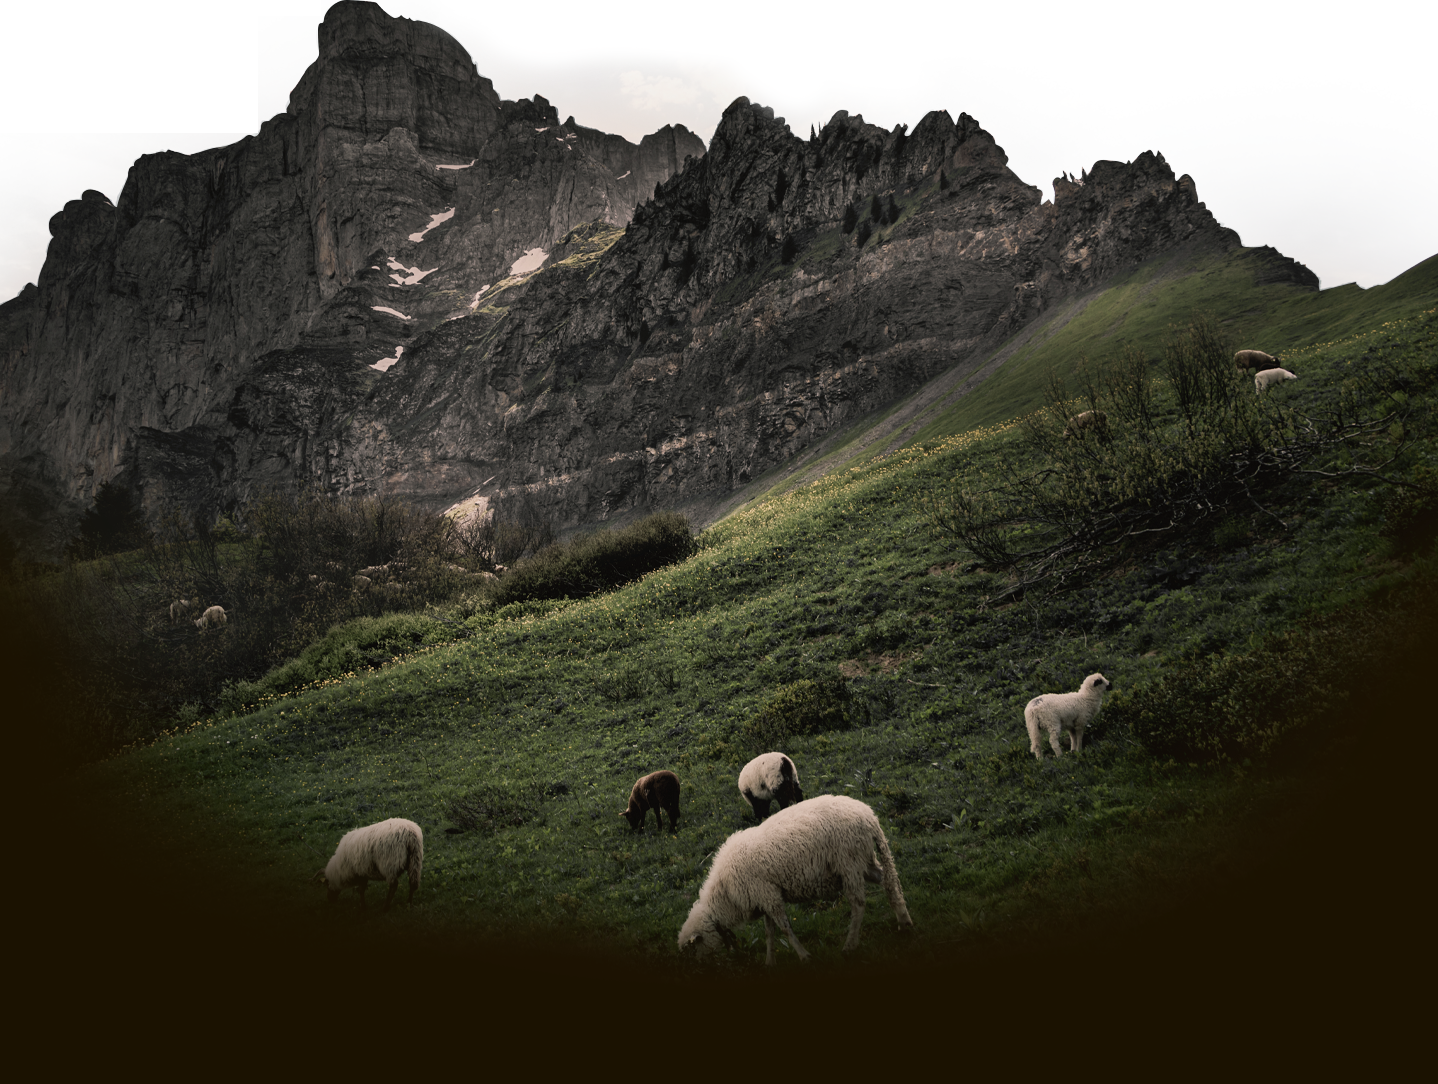
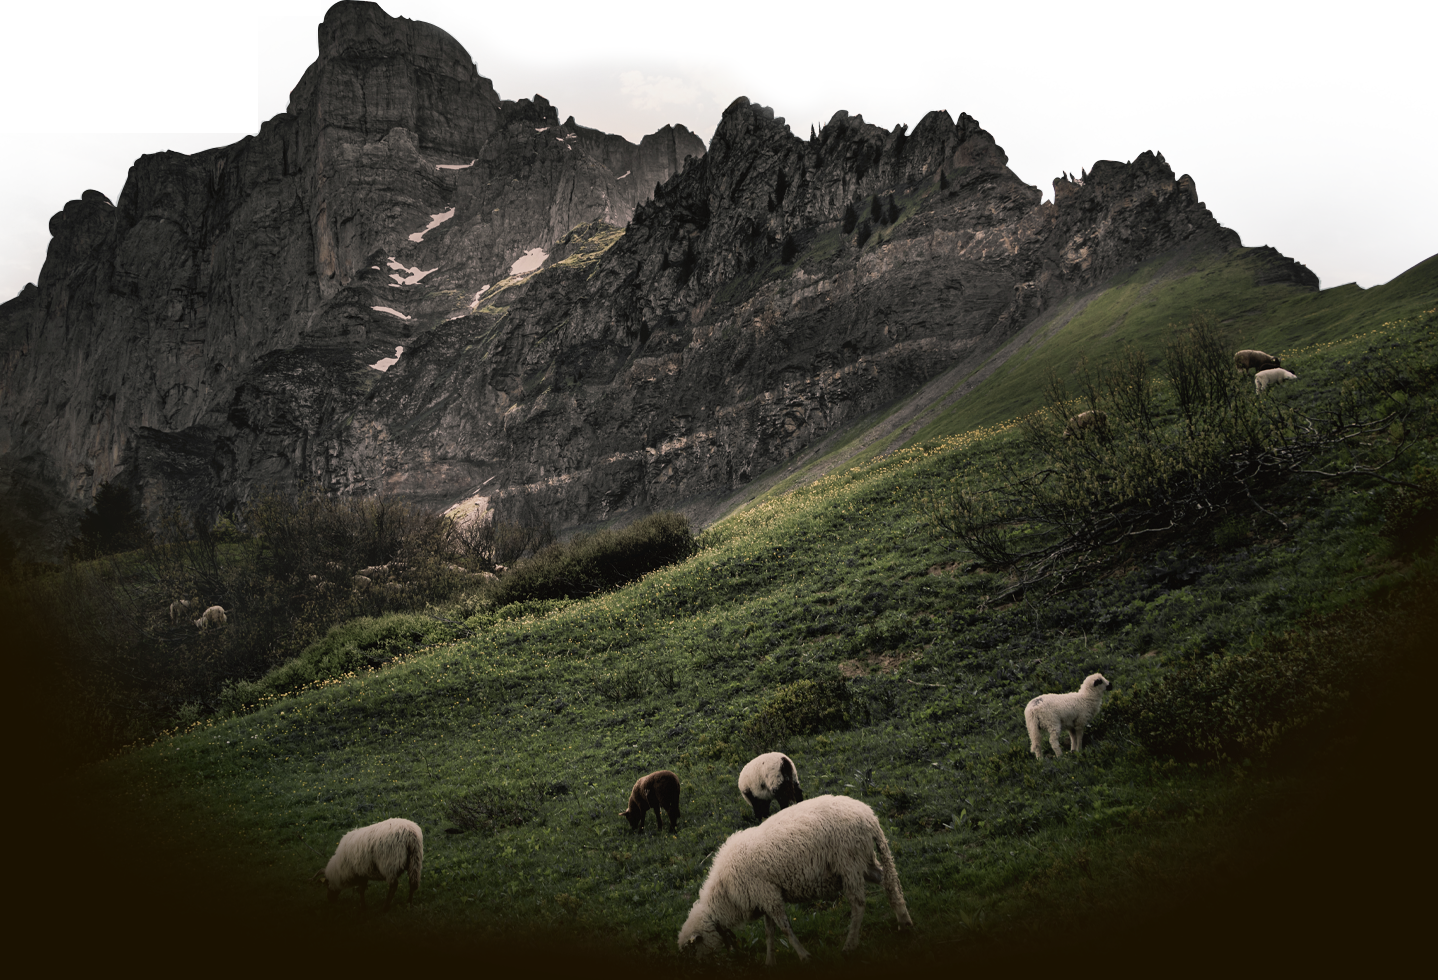
feat(timetable): adding timetable item

diff --git a/components/molecules/Timtable/Timetable.vue b/components/molecules/Timtable/Timetable.vue
@@ -1,0 +1,67 @@
+<script setup lang="ts">
+import type { Timetable } from '@/shared/interfaces'
+
+type KeyType = 0 | 1 | 2 | 3 | 4 | 5 | 6
+
+const props = defineProps<{
+  timetable: Timetable
+}>()
+
+const dayIndex: KeyType = new Date().getDay() as KeyType
+const mappingArray = {
+  0: 6,
+  1: 0,
+  2: 1,
+  3: 2,
+  4: 3,
+  5: 4,
+  6: 5,
+}
+const activeItem = mappingArray[dayIndex]
+</script>
+
+<template>
+  <div class="c-timetable bg-black-400 pb-20 pt-14">
+    <h2 class="center mb-14 text-center font-serif text-2xl font-bold uppercase leading-8 text-black-100" v-html="props.timetable.title" />
+    <div class="container-xl container mx-auto">
+      <ul
+        v-if="props.timetable.items.length"
+        class="flex justify-between"
+      >
+        <li
+          v-for="(item, key) in props.timetable.items"
+          :key="item.id"
+          :class="{ 'opacity-30': activeItem !== key }"
+          class="border-b-2 border-ble-200 pb-4 hover:cursor-default hover:opacity-100"
+        >
+          <p class="mb-4 font-semibold uppercase leading-none text-black-200">
+            {{ item.title }}
+          </p>
+          <span
+            class="block font-black uppercase leading-none text-black-100"
+          >
+            {{ item.timeSlots1 }}
+          </span>
+          <span
+            v-if="item.timeSlots2"
+            class="block font-black uppercase leading-none text-black-100"
+          >
+            {{ item.timeSlots2 }}
+          </span>
+        </li>
+      </ul>
+    </div>
+  </div>
+</template>
+
+<style lang="scss" scoped>
+.c-timetable {
+  ul {
+    li {
+      transition: var(--transition-default);
+      width: 100%;
+      max-width: 6.25rem;
+    }
+  }
+}
+</style>

diff --git a/shared/fakeData/timetable.fake.ts b/shared/fakeData/timetable.fake.ts
@@ -1,0 +1,49 @@
+import type { Timetable } from '../interfaces'
+
+export const timetableData: Timetable = {
+  title: 'Horaires d\'ouverture <br> du restaurant en été',
+  items: [
+    {
+      title: 'Lun',
+      timeSlots1: '11h30-14h30',
+      timeSlots2: '19h00-22h30',
+      id: '567BrHJIbhfe67',
+    },
+    {
+      title: 'Mar',
+      timeSlots1: '11h30-14h30',
+      timeSlots2: '19h00-22h30',
+      id: '567BHJIbhfue67',
+    },
+    {
+      title: 'Mer',
+      timeSlots1: '11h30-14h30',
+      timeSlots2: '19h00-22h30',
+      id: '567BHJIbbhfe67',
+    },
+    {
+      title: 'Jeu',
+      timeSlots1: '11h30-14h30',
+      timeSlots2: '19h00-22h30',
+      id: '567BHJIbhfe867',
+    },
+    {
+      title: 'Ven',
+      timeSlots1: '11h30-14h30',
+      timeSlots2: '19h00-22h30',
+      id: '567BHJRIbhfe67',
+    },
+    {
+      title: 'Sam',
+      timeSlots1: '11h30-14h30',
+      timeSlots2: '19h00-22h30',
+      id: '567BHoJIbhfe67',
+    },
+    {
+      title: 'Dim',
+      timeSlots1: '11h30-14h30',
+      timeSlots2: '19h00-22h30',
+      id: '567BHJkIbhfe67',
+    },
+  ],
+}

diff --git a/tailwind.config.js b/tailwind.config.js
@@ -11,12 +11,12 @@ export default {
       smartphone: '480px',
       tablet: '768px',
       laptop: '976px',
-      desktop: '1440px',
+      desktop: '1442px',
     },
     container: {
       screens: {
         md: '1200px',
-        xl: '1596px',
+        xl: '1442px',
       },
     },
     fontFamily: {

diff --git a/pages/index.vue b/pages/index.vue
@@ -1,6 +1,13 @@
 <script lang="ts" setup>
+import { timetableData } from '@/shared/fakeData'
 </script>
 
 <template>
-  <Hero />
+  <div>
+    <Hero />
+    <Timetable
+      v-if="timetableData.items.length"
+      :timetable="timetableData"
+    />
+  </div>
 </template>

diff --git a/shared/interfaces/components/Timetable.interface.ts b/shared/interfaces/components/Timetable.interface.ts
@@ -1,0 +1,11 @@
+export interface Time {
+  title: string
+  timeSlots1: string
+  timeSlots2?: string
+  id: string
+}
+
+export interface Timetable {
+  title: string
+  items: Time[]
+}

diff --git a/shared/interfaces/components/index.ts b/shared/interfaces/components/index.ts
@@ -1,2 +1,3 @@
 export * from './GlobalComponent.interface'
+export * from './Timetable.interface'
 export * from './TopBar.interface'

diff --git a/shared/fakeData/index.ts b/shared/fakeData/index.ts
@@ -1,0 +1,1 @@
+export * from './timetable.fake'
